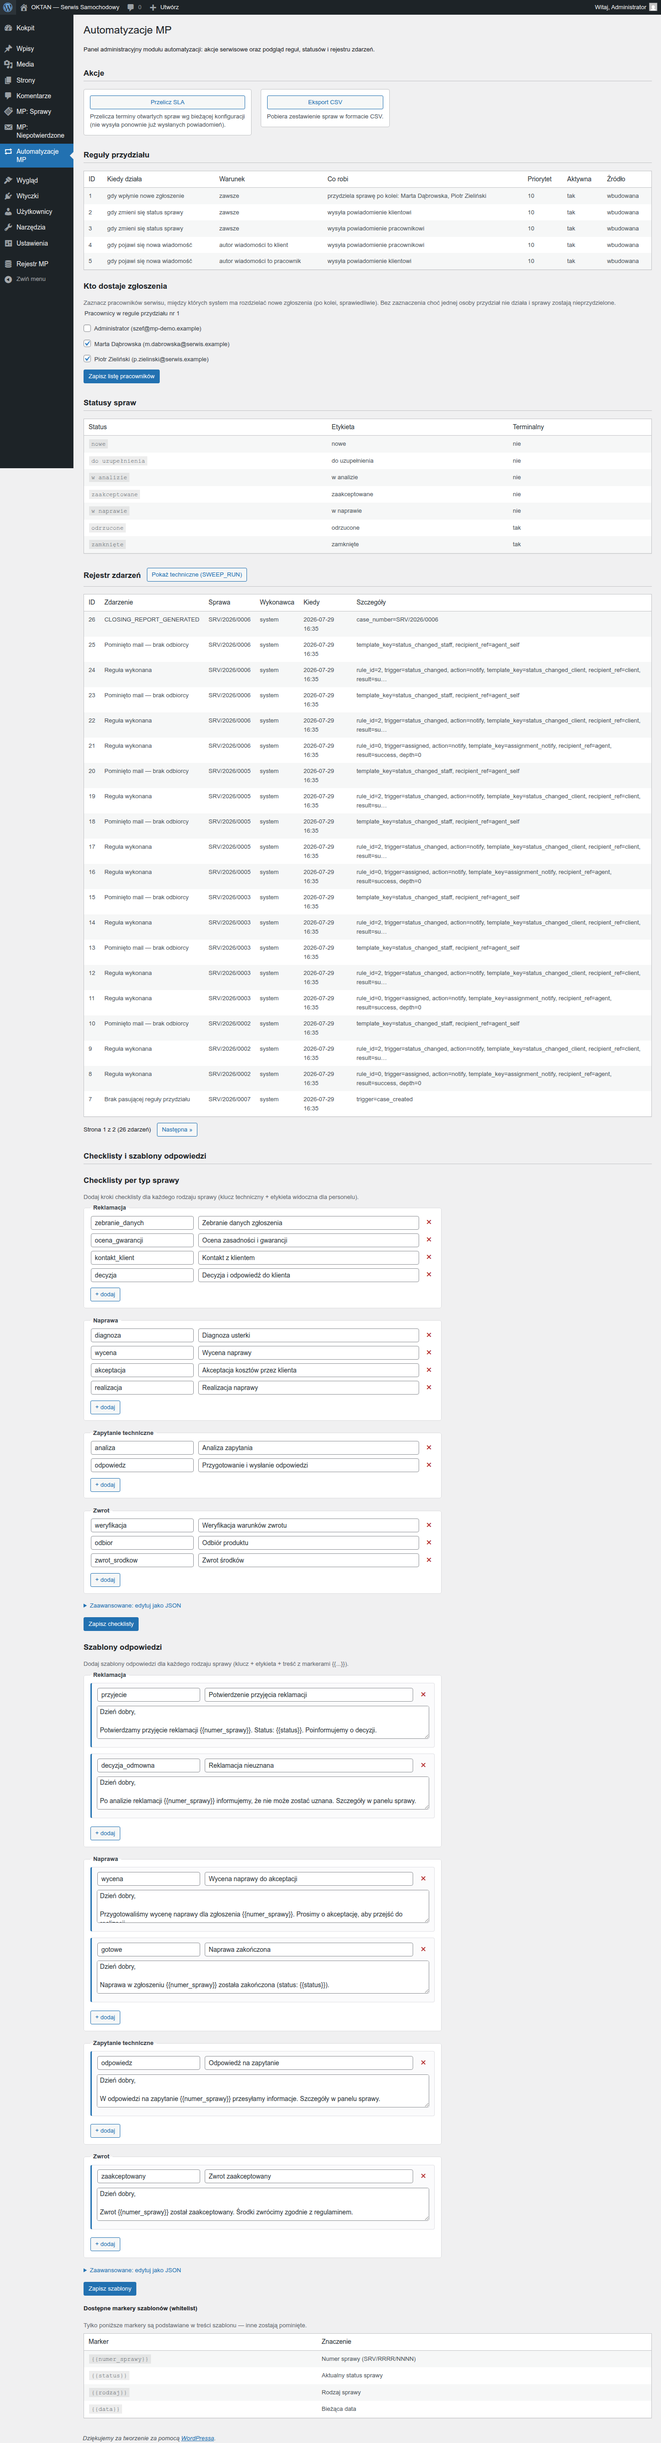
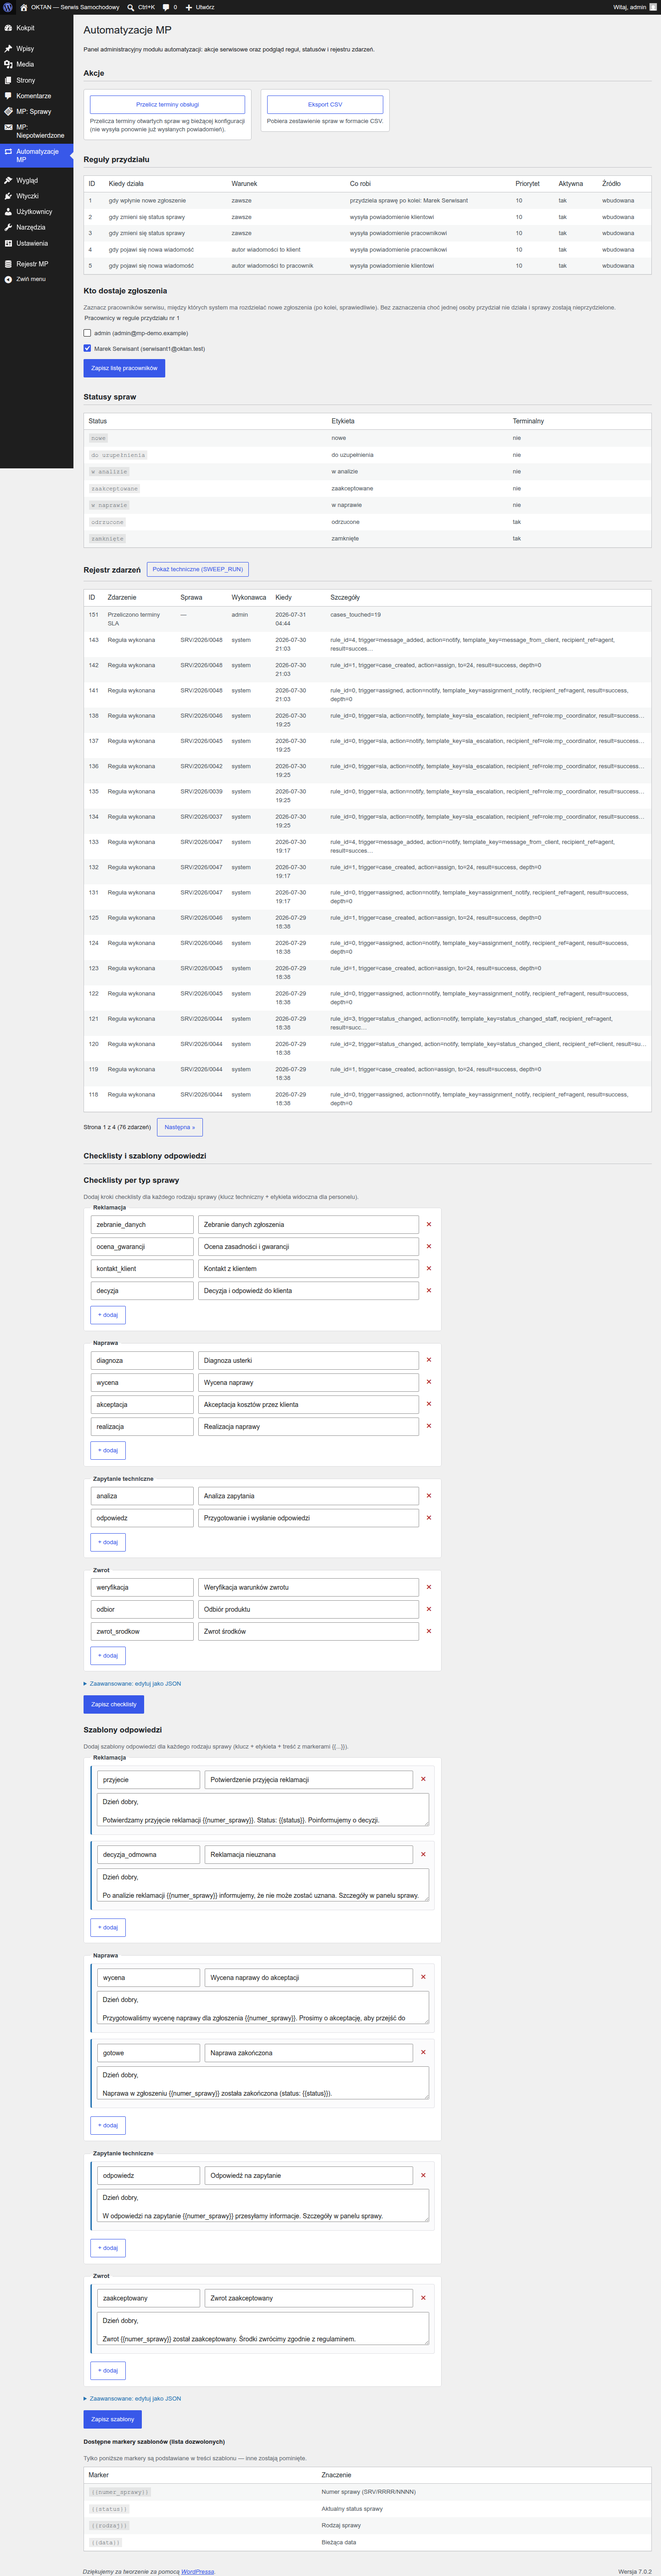
fix: jezyk ekranow po polsku + materialy zgodne z panelem (wydanie 1.3.8)
Runda wyszla od klikania po panelu przez zamawiajacego, nie z kontroli
automatycznych. Trzy pytania („czy to ma byc puste?", „te znaki maja byc?")
uruchomily przeglad dwiema niezaleznymi kontrolami: rozjazdy instrukcja
vs panel oraz zargon w polskim interfejsie. Kazde znalezisko sprawdzone
w kodzie z numerem linii; dwa zawyzone zgloszenia zawezone do faktow.

JEZYK EKRANOW (kod):
- naglowek kolumny „Job" -> „Import" (bylo jedyne angielskie slowo posrod
  polskich naglowkow tej samej tabeli)
- „Job importu nie istnieje" -> „Ten import nie istnieje"; „job nie istnieje"
  -> „ten import nie istnieje" (komunikaty widzi pracownik przy przerwanym
  imporcie)
- „Niepelne dane batcha" -> „Niepelne dane porcji importu" (wtyczka gdzie
  indziej uzywa polskiego „Partia" na to samo)
- „(whitelist)" -> „(lista dozwolonych)"
- „Przelicz SLA" -> „Przelicz terminy obslugi"; Stan witryny mowi
  „Terminy obslugi zgloszen (SLA)"
- „(UTC)" zdjete z naglowkow kolumn, pod tabelami zdanie tlumaczace roznice
  wzgledem zegara w Polsce (import + wyjatki gwarancyjne)

MATERIALY:
- ADMIN.md: prawdziwa droga do wyjatkow (Rejestr -> produkt -> Akcje ->
  „wyjatki") + wyjasnienie, czemu pozycja w menu pokazuje sama podpowiedz
- PRACOWNIK.md: filtr „Przydzielony: ja" -> „Moje sprawy" (nazwa z panelu)
- „Rejestr MP -> Import" -> „Import CSV" (2 miejsca)
- INSTRUKCJA-KLIENTA: dodany zapis pol podstawianych ({{numer_sprawy}}),
  gdzie jest ich pelna lista i co sie dzieje z polem spoza niej
[…]

diff --git a/build/zrzuty-do-instrukcji.js b/build/zrzuty-do-instrukcji.js
@@ -85,7 +85,28 @@ const ZRZUTY = [
       return new URL(href, BASE).toString();
     },
   },
-  { nazwa: 'admin-06-wyjatki', url: () => `${BASE}/wp-admin/admin.php?page=mp-registry-exceptions` },
+  {
+    // Wyjatki dotycza ZAWSZE konkretnego produktu. Wejscie na sam adres ekranu, bez
+    // parametru `product`, pokazuje wylacznie podpowiedz „Wybierz produkt z listy" —
+    // taki zrzut trafil do instrukcji i ilustrowal funkcje PUSTA strona. Dlatego
+    // wchodzimy tak, jak wchodzi administrator: z listy produktow, odnosnikiem
+    // „wyjatki" w kolumnie Akcje. Preferujemy produkt, ktory JUZ MA wyjatek
+    // (plakietka `.mp-badge-exception`), zeby zdjecie pokazywalo tresc, nie sam formularz.
+    nazwa: 'admin-06-wyjatki',
+    url: async (page) => {
+      if (process.env.MP_PRODUCT_ID) {
+        return `${BASE}/wp-admin/admin.php?page=mp-registry-exceptions&product=${process.env.MP_PRODUCT_ID}`;
+      }
+      await page.goto(`${BASE}/wp-admin/admin.php?page=mp-registry`, { waitUntil: 'networkidle' });
+      const zWyjatkiem = page.locator('tr:has(.mp-badge-exception) a[href*="mp-registry-exceptions"]').first();
+      const dowolny = page.locator('a[href*="mp-registry-exceptions"]').first();
+      const wybrany = (await zWyjatkiem.count()) > 0 ? zWyjatkiem : dowolny;
+      if ((await wybrany.count()) === 0) {
+        throw new Error('Brak produktu w rejestrze — nie ma z czego zrobic zrzutu wyjatkow.');
+      }
+      return new URL(await wybrany.getAttribute('href'), BASE).toString();
+    },
+  },
   { nazwa: 'admin-07-automatyzacje', url: () => `${BASE}/wp-admin/admin.php?page=mp-automator` },
   {
     nazwa: '02-formularz-pusty',

diff --git a/mp-workflow-automator/includes/Admin/PanelScreen.php b/mp-workflow-automator/includes/Admin/PanelScreen.php
@@ -294,7 +294,7 @@ final class PanelScreen {
 			<?php if ( current_user_can( 'mp_system_admin' ) ) : ?>
 				<form method="post" action="<?php echo esc_url( admin_url( 'admin-post.php' ) ); ?>" class="mp-automator-action">
 					<?php echo SlaRecalcAction::form_fields(); // phpcs:ignore WordPress.Security.EscapeOutput.OutputNotEscaped -- form_fields zwraca gotowy, bezpieczny HTML (hidden action + wp_nonce_field). ?>
-					<?php submit_button( __( 'Przelicz SLA', 'mp-workflow-automator' ), 'secondary', 'mp_recalc_submit', false ); ?>
+					<?php submit_button( __( 'Przelicz terminy obsługi', 'mp-workflow-automator' ), 'secondary', 'mp_recalc_submit', false ); ?>
 					<span class="description"><?php esc_html_e( 'Przelicza terminy otwartych spraw wg bieżącej konfiguracji (nie wysyła ponownie już wysłanych powiadomień).', 'mp-workflow-automator' ); ?></span>
 				</form>
 			<?php endif; ?>
@@ -1001,7 +1001,7 @@ final class PanelScreen {
 	private static function render_markers_whitelist(): void {
 		$markers = ResponseTemplates::markers_whitelist();
 		?>
-		<h4 class="mp-automator-h4"><?php esc_html_e( 'Dostępne markery szablonów (whitelist)', 'mp-workflow-automator' ); ?></h4>
+		<h4 class="mp-automator-h4"><?php esc_html_e( 'Dostępne markery szablonów (lista dozwolonych)', 'mp-workflow-automator' ); ?></h4>
 		<p class="description"><?php esc_html_e( 'Tylko poniższe markery są podstawiane w treści szablonu — inne zostają pominięte.', 'mp-workflow-automator' ); ?></p>
 		<table class="widefat striped mp-automator-table">
 			<caption class="screen-reader-text"><?php esc_html_e( 'Lista dostępnych markerów szablonów odpowiedzi', 'mp-workflow-automator' ); ?></caption>

diff --git a/mp-warranty-registry/includes/Admin/ImportEndpoints.php b/mp-warranty-registry/includes/Admin/ImportEndpoints.php
@@ -123,7 +123,7 @@ final class ImportEndpoints {
 		$token  = isset( $_POST['token'] ) ? sanitize_text_field( wp_unslash( (string) $_POST['token'] ) ) : '';
 
 		if ( 0 === $job_id || '' === $token ) {
-			wp_send_json_error( array( 'message' => __( 'Niepełne dane batcha.', 'mp-warranty-registry' ) ), 400 );
+			wp_send_json_error( array( 'message' => __( 'Niepełne dane porcji importu.', 'mp-warranty-registry' ) ), 400 );
 		}
 
 		$result = Importer::process_batch( $job_id, $token );
@@ -156,7 +156,7 @@ final class ImportEndpoints {
 		$job = ImportJobs::get( $job_id );
 
 		if ( null === $job || ! is_file( (string) $job['file_path'] ) ) {
-			wp_send_json_error( array( 'message' => __( 'Nie można wznowić: job nie istnieje albo jego plik roboczy został już usunięty.', 'mp-warranty-registry' ) ), 409 );
+			wp_send_json_error( array( 'message' => __( 'Nie można wznowić: ten import nie istnieje albo jego plik roboczy został już usunięty.', 'mp-warranty-registry' ) ), 409 );
 		}
 
 		$token = ImportJobs::reclaim( $job_id );
@@ -192,7 +192,7 @@ final class ImportEndpoints {
 		$job = ImportJobs::get( $job_id );
 
 		if ( null === $job ) {
-			wp_die( esc_html__( 'Job importu nie istnieje.', 'mp-warranty-registry' ), '', 404 );
+			wp_die( esc_html__( 'Ten import nie istnieje.', 'mp-warranty-registry' ), '', 404 );
 		}
 
 		$report  = (string) $job['file_path'] . '.bledy.csv';

diff --git a/mp-workflow-automator/includes/Admin/SiteHealthTests.php b/mp-workflow-automator/includes/Admin/SiteHealthTests.php
@@ -173,7 +173,7 @@ final class SiteHealthTests {
 			return SiteHealth::wynik(
 				'mp_automator_cron',
 				'critical',
-				__( 'Terminy SLA i przypomnienia NIE DZIAŁAJĄ — wyłączony WP-Cron', 'mp-workflow-automator' ),
+				__( 'Terminy obsługi zgłoszeń (SLA) i przypomnienia NIE DZIAŁAJĄ — wyłączony WP-Cron', 'mp-workflow-automator' ),
 				__( 'W konfiguracji strony ustawiono DISABLE_WP_CRON. System dalej przyjmuje zgłoszenia, ale nie pilnuje terminów: nie wyśle przypomnienia przed upływem SLA ani nie zgłosi eskalacji po terminie. Awaria jest niewidoczna — wygląda, jakby wszystko działało.', 'mp-workflow-automator' ),
 				__( 'Jeśli hosting wyłączył WP-Cron celowo, ustaw w panelu zadanie systemowe (cron) wywołujące wp-cron.php co 5 minut. To standardowa i zalecana konfiguracja.', 'mp-workflow-automator' )
 			);
@@ -225,7 +225,7 @@ final class SiteHealthTests {
 		return SiteHealth::wynik(
 			'mp_automator_cron',
 			'good',
-			__( 'Terminy SLA są pilnowane', 'mp-workflow-automator' ),
+			__( 'Terminy obsługi zgłoszeń (SLA) są pilnowane', 'mp-workflow-automator' ),
 			sprintf(
 				/* translators: 1: data nastepnego uruchomienia, 2: data ostatniego wykonania albo myslnik. */
 				__( 'Zadanie sprawdzające terminy jest zaplanowane (najbliższe: %1$s) i realnie się wykonuje (ostatni przebieg: %2$s GMT).', 'mp-workflow-automator' ),

diff --git a/mp-warranty-registry/includes/Admin/ExceptionsScreen.php b/mp-warranty-registry/includes/Admin/ExceptionsScreen.php
@@ -130,7 +130,7 @@ final class ExceptionsScreen {
 						<th scope="col">ID</th>
 						<th scope="col"><?php esc_html_e( 'Zakres', 'mp-warranty-registry' ); ?></th>
 						<th scope="col"><?php esc_html_e( 'Status', 'mp-warranty-registry' ); ?></th>
-						<th scope="col"><?php esc_html_e( 'Ważny do (UTC)', 'mp-warranty-registry' ); ?></th>
+						<th scope="col"><?php esc_html_e( 'Ważny do', 'mp-warranty-registry' ); ?></th>
 						<th scope="col"><?php esc_html_e( 'Powód', 'mp-warranty-registry' ); ?></th>
 						<th scope="col"><?php esc_html_e( 'Akcja', 'mp-warranty-registry' ); ?></th>
 					</tr>
@@ -197,7 +197,7 @@ final class ExceptionsScreen {
 						<th scope="row"><label for="mp-exc-until"><?php esc_html_e( 'Ważny do (opcjonalnie)', 'mp-warranty-registry' ); ?></label></th>
 						<td>
 							<input type="date" id="mp-exc-until" name="valid_until" />
-							<p class="description"><?php esc_html_e( 'Puste = bezterminowo. Data musi być w przyszłości (koniec dnia UTC).', 'mp-warranty-registry' ); ?></p>
+							<p class="description"><?php esc_html_e( 'Puste = bezterminowo. Data musi być w przyszłości; wyjątek wygasa z końcem wskazanego dnia (czas UTC — w Polsce zegar jest o 1–2 godziny do przodu).', 'mp-warranty-registry' ); ?></p>
 						</td>
 					</tr>
 					<tr>

diff --git a/mp-warranty-registry/includes/Admin/ImportScreen.php b/mp-warranty-registry/includes/Admin/ImportScreen.php
@@ -290,11 +290,11 @@ final class ImportScreen {
 		<table class="widefat striped mp-import-history">
 			<thead>
 				<tr>
-					<th scope="col"><?php esc_html_e( 'Job', 'mp-warranty-registry' ); ?></th>
+					<th scope="col"><?php esc_html_e( 'Import', 'mp-warranty-registry' ); ?></th>
 					<th scope="col"><?php esc_html_e( 'Status', 'mp-warranty-registry' ); ?></th>
 					<th scope="col"><?php esc_html_e( 'Wiersze', 'mp-warranty-registry' ); ?></th>
 					<th scope="col"><?php esc_html_e( 'Błędy', 'mp-warranty-registry' ); ?></th>
-					<th scope="col"><?php esc_html_e( 'Utworzony (UTC)', 'mp-warranty-registry' ); ?></th>
+					<th scope="col"><?php esc_html_e( 'Utworzony', 'mp-warranty-registry' ); ?></th>
 					<th scope="col"><?php esc_html_e( 'Raport błędów', 'mp-warranty-registry' ); ?></th>
 				</tr>
 			</thead>
@@ -319,6 +319,9 @@ final class ImportScreen {
 				<?php endforeach; ?>
 			</tbody>
 		</table>
+		<p class="description">
+			<?php esc_html_e( 'Godziny w kolumnie „Utworzony” podane są w czasie uniwersalnym (UTC) — w Polsce zegar jest o 1 godzinę (zimą) lub 2 godziny (latem) do przodu.', 'mp-warranty-registry' ); ?>
+		</p>
 		<?php
 	}
 

diff --git a/mp-warranty-registry/mp-warranty-registry.php b/mp-warranty-registry/mp-warranty-registry.php
@@ -2,7 +2,7 @@
 /**
  * Plugin Name: MP Warranty & Serial Registry
  * Description: Rejestr produktow, numerow seryjnych, partii i okresow gwarancyjnych: import CSV, statusy gwarancji, wyjatki gwarancyjne, wyszukiwarka.
- * Version: 1.3.7
+ * Version: 1.3.8
  * Requires at least: 6.0
  * Requires PHP: 8.1
  * Author: MP Service Suite
@@ -19,7 +19,7 @@ if ( ! defined( 'ABSPATH' ) ) {
 }
 
 define( 'MP_REGISTRY_FILE', __FILE__ );
-define( 'MP_REGISTRY_VERSION', '1.3.7' );
+define( 'MP_REGISTRY_VERSION', '1.3.8' );
 
 if ( ! defined( 'MP_CONTRACT_VERSION' ) ) {
 	define( 'MP_CONTRACT_VERSION', 1 );

diff --git a/mp-workflow-automator/mp-workflow-automator.php b/mp-workflow-automator/mp-workflow-automator.php
@@ -2,7 +2,7 @@
 /**
  * Plugin Name: MP Workflow Automator
  * Description: Silnik regul serwisu: automatyczny przydzial spraw, statusy, powiadomienia e-mail, terminy SLA z eskalacja, checklisty i eksport raportow.
- * Version: 1.3.7
+ * Version: 1.3.8
  * Requires at least: 6.0
  * Requires PHP: 8.1
  * Author: MP Service Suite
@@ -19,7 +19,7 @@ if ( ! defined( 'ABSPATH' ) ) {
 }
 
 define( 'MP_AUTOMATOR_FILE', __FILE__ );
-define( 'MP_AUTOMATOR_VERSION', '1.3.7' );
+define( 'MP_AUTOMATOR_VERSION', '1.3.8' );
 
 if ( ! defined( 'MP_CONTRACT_VERSION' ) ) {
 	define( 'MP_CONTRACT_VERSION', 1 );

diff --git a/mp-service-intake/mp-service-intake.php b/mp-service-intake/mp-service-intake.php
@@ -2,7 +2,7 @@
 /**
  * Plugin Name: MP Service Intake
  * Description: Przyjmowanie zgloszen serwisowych i reklamacyjnych: dynamiczny formularz, numer sprawy SRV, konto klienta, ochrona przed spamem.
- * Version: 1.3.7
+ * Version: 1.3.8
  * Requires at least: 6.0
  * Requires PHP: 8.1
  * Author: MP Service Suite
@@ -19,7 +19,7 @@ if ( ! defined( 'ABSPATH' ) ) {
 }
 
 define( 'MP_INTAKE_FILE', __FILE__ );
-define( 'MP_INTAKE_VERSION', '1.3.7' );
+define( 'MP_INTAKE_VERSION', '1.3.8' );
 
 if ( ! defined( 'MP_CONTRACT_VERSION' ) ) {
 	define( 'MP_CONTRACT_VERSION', 1 );

diff --git a/audyt/RAPORT-AUDYTU.md b/audyt/RAPORT-AUDYTU.md
@@ -1,6 +1,6 @@
 # Raport z audytów — MP Service Suite
 
-**Stan na wydanie 1.3.7:** znalezisk krytycznych **0**, dużych **0**.
+**Stan na wydanie 1.3.8:** znalezisk krytycznych **0**, dużych **0**.
 
 Dokument zbiera wyniki kolejnych rund przeglądu. Jest pisany tak, żeby dało się go zweryfikować:
 każde twierdzenie ma liczbę albo miejsce, w którym można je sprawdzić. Zawiera też rzeczy, które
@@ -22,6 +22,37 @@ błędy, a audytor nie wie, że trwa kalibracja. Kto ich nie znajdzie, tego „c
 jako wynik.
 
 ---
+
+## Runda przy 1.3.8 — przegląd oczami użytkownika, nie skryptu
+
+Ta runda nie wyszła z żadnej kontroli automatycznej. **Zamawiający kliknął po panelu** i zapytał
+o trzy rzeczy, które wyglądały podejrzanie. Sprawdzenie ich uruchomiło szerszy przegląd dwiema
+niezależnymi kontrolami: jedna szukała **rozjazdów między instrukcją a panelem**, druga
+**żargonu w polskim interfejsie**. Każde zgłoszone znalezisko zweryfikowaliśmy w kodzie, z numerem
+linii, zanim cokolwiek poprawiliśmy — dwa zgłoszenia okazały się przy tym przesadzone i zostały
+zawężone do tego, co dało się potwierdzić.
+
+**Znaleziono 13 pozycji. Ani jedna nie była usterką działania** — wszystkie dotyczyły języka
+i zgodności materiałów z tym, co widać na ekranie. Najpoważniejsze:
+
+| Co | Gdzie widać |
+|---|---|
+| nagłówek kolumny **„Job"** wśród polskich nagłówków | ekran importu **oraz zdjęcie w instrukcji** |
+| komunikaty błędu mówiące **„job"** | widzi je pracownik, gdy import się przerwie |
+| **zdjęcie wyjątków gwarancyjnych pokazywało pusty ekran** | instrukcja administratora |
+| instrukcja podawała **drogę prowadzącą do tego pustego ekranu** | instrukcja administratora |
+| filtr **„Przydzielony: ja"** — w panelu nazywa się **„Moje sprawy"** | instrukcja pracownika |
+| **„whitelist"**, **„batch"**, **„UTC"** bez wyjaśnienia | panel, eksport CSV |
+
+**Najważniejsza lekcja tej rundy dotyczy przyczyny, nie objawu.** Puste zdjęcie wyjątków nie było
+pomyłką przy jednorazowym renderowaniu — **narzędzie generujące zdjęcia wchodziło na ten ekran bez
+wskazania produktu**, więc błąd wracałby przy każdym odświeżeniu materiałów. Poprawione zostało
+narzędzie, nie sam obrazek.
+
+**Czego ta runda dowodzi o granicach kontroli automatycznych:** 16 kontroli w CI, bramka
+dokumentów (40 sprawdzeń) i audyty przed poprzednimi wydaniami przepuściły wszystkie te pozycje.
+Żadna maszyna nie sprawdzi, **co widać na zdjęciu**, ani czy słowo na przycisku jest zrozumiałe
+dla człowieka. To znajduje wyłącznie ktoś, kto klika.
 
 ## Runda przy 1.3.7 — powtórzone badanie dostępności
 

diff --git a/CHANGELOG.md b/CHANGELOG.md
@@ -4,6 +4,39 @@ Format: [Keep a Changelog](https://keepachangelog.com/pl/1.1.0/) · wersjonowani
 
 ## [Unreleased]
 
+## [1.3.8] - 2026-07-31
+
+### Zmienione (jezyk ekranow)
+- **Naglowek kolumny „Job" na ekranie importu zamieniony na „Import".** Bylo to jedyne angielskie
+  slowo posrod polskich naglowkow tej samej tabeli („Status", „Wiersze", „Bledy").
+- **Komunikaty bledow importu przestaly mowic „job".** „Job importu nie istnieje" → „Ten import nie
+  istnieje"; „Nie mozna wznowic: job nie istnieje…" → „…ten import nie istnieje…". Te komunikaty
+  widzi pracownik, gdy import sie przerwie.
+- **„Niepelne dane batcha" → „Niepelne dane porcji importu"** — ta sama wtyczka w innym miejscu
+  uzywa polskiego slowa „Partia" na to samo pojecie.
+- **Lista markerow szablonow podpisana „(lista dozwolonych)" zamiast „(whitelist)".**
+- **Przycisk „Przelicz SLA" → „Przelicz terminy obslugi"**, a testy Stanu witryny mowia
+  „Terminy obslugi zgloszen (SLA)" — skrot jest rozwiniety przy pierwszym uzyciu.
+- **Godziny w czasie UTC opisane po ludzku.** Kolumny „Utworzony (UTC)" i „Wazny do (UTC)" stracily
+  techniczny dopisek, a pod tabelami stoi zdanie: czas uniwersalny, w Polsce zegar jest o 1 godzine
+  (zima) lub 2 godziny (latem) do przodu.
+
+### Poprawione (materialy dla klienta)
+- **Zdjecie wyjatkow gwarancyjnych pokazywalo PUSTY ekran** z podpowiedzia „Wybierz produkt",
+  wklejone pod opisem dzialajacej funkcji. Przyczyna siedziala w narzedziu generujacym zdjecia:
+  wchodzilo na ekran wyjatkow bez wskazania produktu, wiec blad wracalby przy kazdym odswiezeniu.
+  Narzedzie wchodzi teraz tak jak administrator — z listy produktow, odnosnikiem „wyjatki" — i wybiera
+  produkt, ktory JUZ MA wyjatek, zeby zdjecie pokazywalo tresc.
+- **Instrukcja administratora podawala droge prowadzaca do tego pustego ekranu.** Teraz opisuje
+  wlasciwa (Rejestr MP → produkt → kolumna Akcje → „wyjatki") i tlumaczy, czemu pozycja w menu
+  bocznym pokazuje sama podpowiedz.
+- **Nazwy w instrukcjach niezgodne z panelem:** filtr „Przydzielony: ja" → **„Moje sprawy"**,
+  „Rejestr MP → Import" → **„Import CSV"** (2 miejsca).
+- **Instrukcja glowna nie pokazywala zapisu pol podstawianych** w szablonach odpowiedzi. Doszedl
+  przyklad `{{numer_sprawy}}` z wyjasnieniem, gdzie znalezc pelna liste i co sie dzieje z polem
+  spoza niej.
+- Odswiezone zdjecia w instrukcji administratora: import produktow, automatyzacje, wyjatki gwarancyjne.
+
 ## [1.3.7] - 2026-07-31
 
 ### Zmienione (dokumentacja)

diff --git a/dla-klienta/INSTRUKCJA-KLIENTA.md b/dla-klienta/INSTRUKCJA-KLIENTA.md
@@ -120,7 +120,7 @@ Dla **każdego** z 3 plików ZIP:
 - ⚠ **Bazę produktów wgraj ZANIM udostępnisz formularz klientom.** Zgłoszenie łączy się z produktem
   **w chwili przyjęcia** i to powiązanie nie jest uzupełniane wstecz. Sprawy przyjęte przed importem
   zostaną bez produktu i bez statusu gwarancji (numer seryjny nadal będzie widoczny w opisie zgłoszenia).
-- **Import produktów z CSV**: Rejestr MP → Import. Obsługiwane duże pliki (dziesiątki tysięcy wierszy), wznawianie po przerwaniu.
+- **Import produktów z CSV**: Rejestr MP → Import CSV. Obsługiwane duże pliki (dziesiątki tysięcy wierszy), wznawianie po przerwaniu.
 - 📎 **Gotowy przykład jest w paczce** — plik `przyklady/przyklad-import-produktow.csv` w folderze wtyczki, a na ekranie importu jest
   link **„Pobierz przykładowy plik CSV"**. Otwórz go w Excelu, podmień dane na swoje i wgraj.
 - **Poprawianie danych produktu**: przy produkcie w rejestrze jest odnośnik **„popraw dane"** (tylko
@@ -207,7 +207,11 @@ Dla **każdego** z 3 plików ZIP:
 
 **Szablony i checklisty:**
 - **Automatyzacje MP → sekcja „Checklisty i szablony odpowiedzi"** — gotowe treści maili z podstawianymi polami (numer sprawy,
-  status, termin).
+  status, termin). Takie pole zapisuje się w treści w podwójnych nawiasach klamrowych, np.
+  `{{numer_sprawy}}` — przy wysyłce system podmienia je na prawdziwą wartość (`SRV/2026/0042`).
+  **Spis wszystkich dostępnych pól wraz ze znaczeniem jest na tym samym ekranie, pod edytorem
+  szablonów** (tabela „Dostępne markery szablonów"). Pole spoza tej listy zostaje w treści
+  niezmienione, więc literówka nie wyśle klientowi przypadkowych danych.
 - w tej samej sekcji **checklisty per typ sprawy** — lista kroków obsługi dla każdego rodzaju sprawy; pracownik odhacza
   kroki na karcie sprawy, każde odhaczenie zostaje w historii.
 
@@ -361,4 +365,4 @@ Godziny:      ......................................
 ```
 
 ---
-*Wersje w tej paczce: MP Service Intake · MP Warranty & Serial Registry · MP Workflow Automator — wszystkie w wersji **1.3.7**.*
+*Wersje w tej paczce: MP Service Intake · MP Warranty & Serial Registry · MP Workflow Automator — wszystkie w wersji **1.3.8**.*
